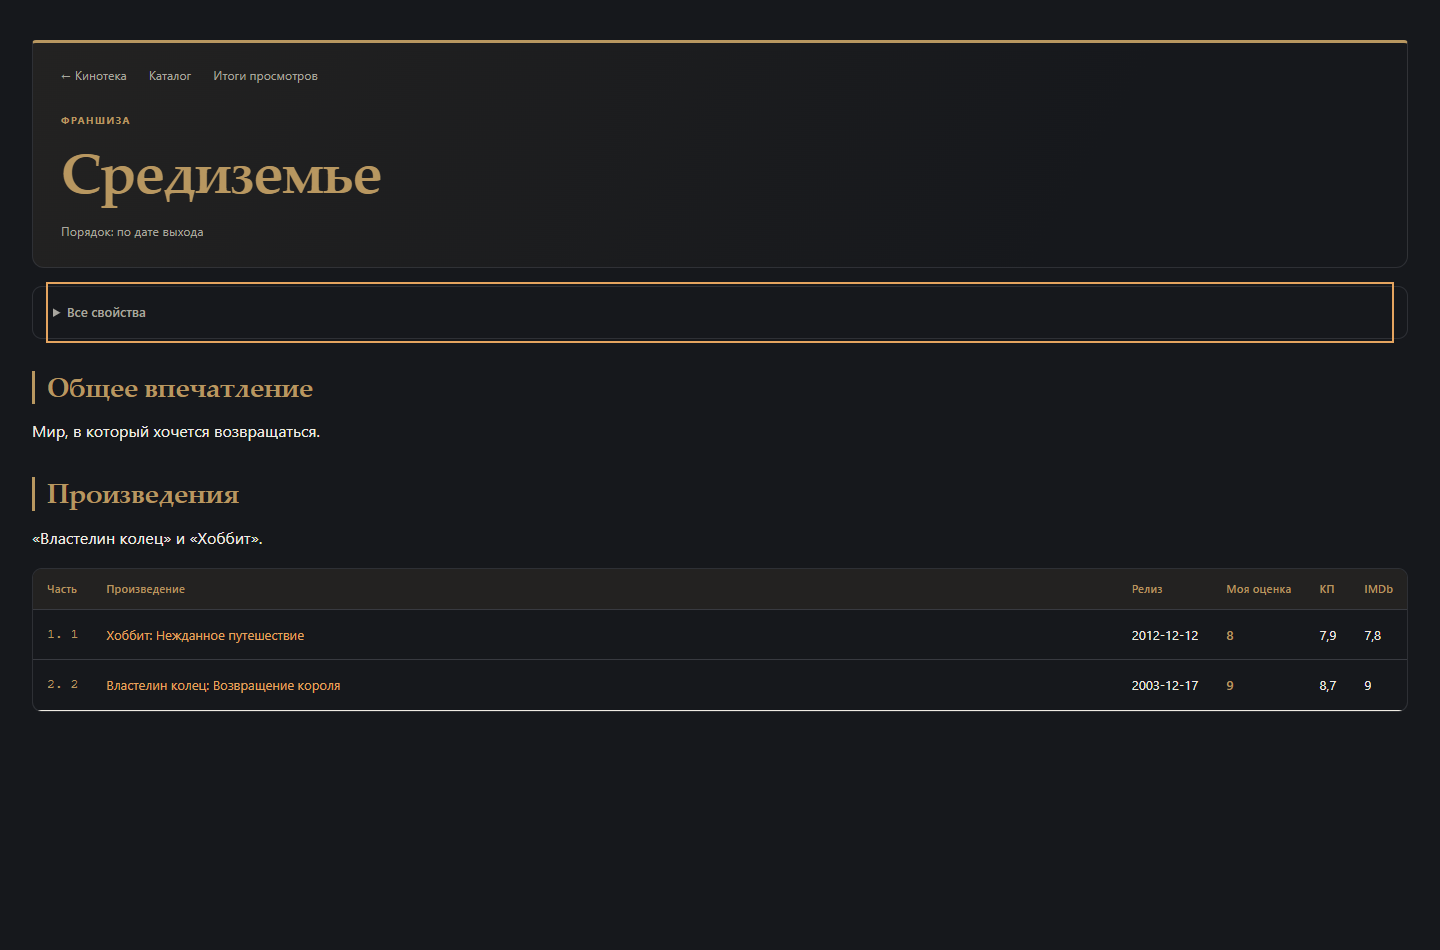
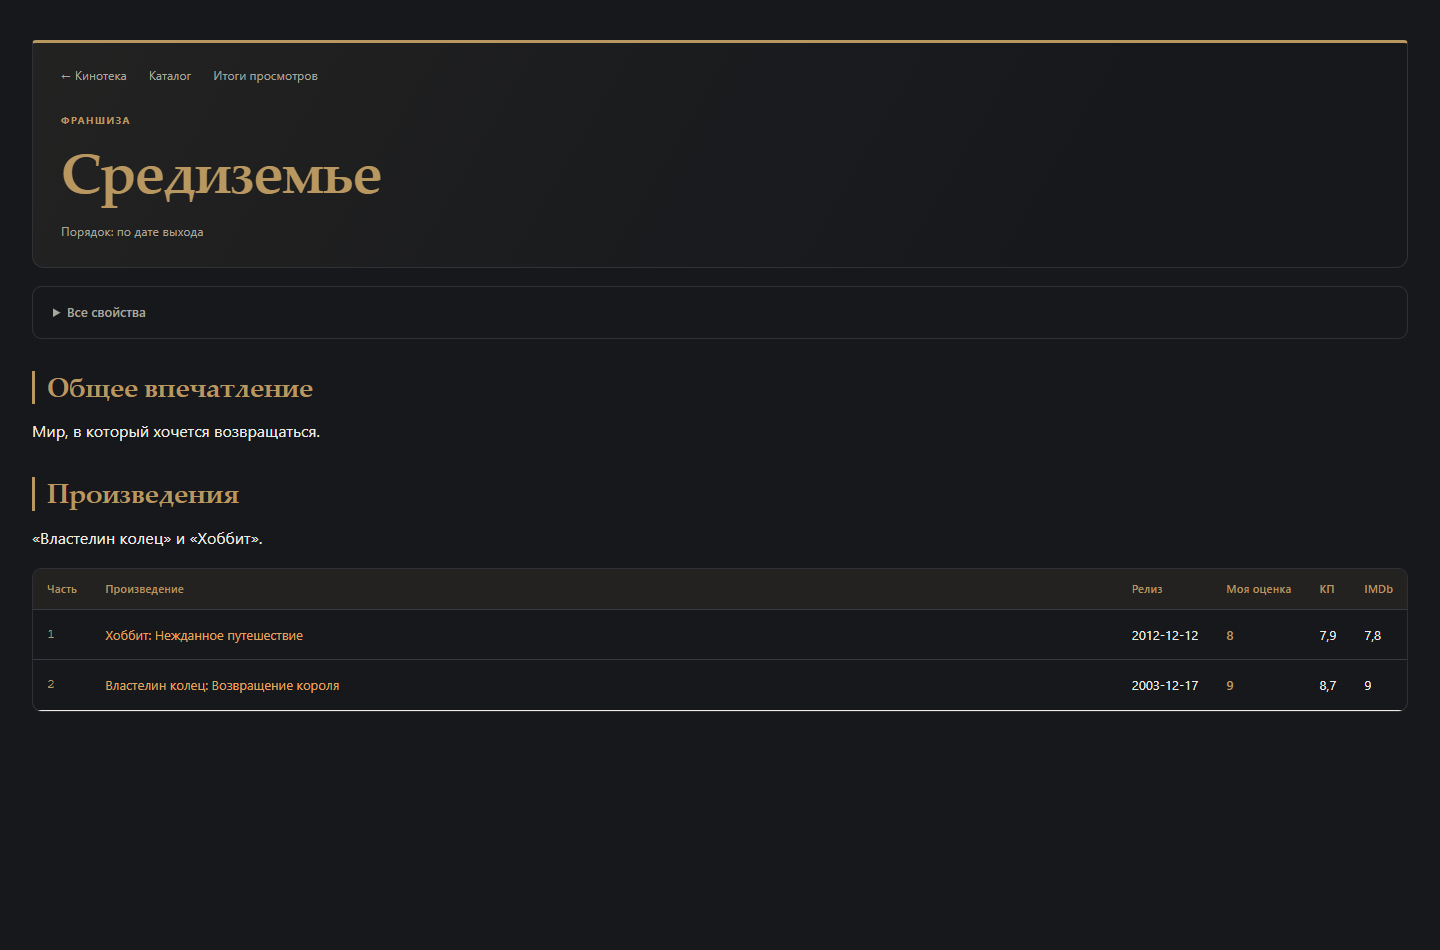
vault backup: 2026-10-13 20:47:33

diff --git a/Кино/_system/Редизайн — прогресс.md b/Кино/_system/Редизайн — прогресс.md
@@ -11,6 +11,7 @@ cssclasses: ["kino-page","kino-system"]
 - **Запрос завершён:** все 173 страницы франшиз используют общую шапку с навигацией, мягкий золотой #b89760, serif-заголовки разделов, панель свойств и оформленные таблицы. Ширина остаётся 100%; таблица на узкой панели прокручивается внутри своего блока. Другие виды карточек не менялись.
 - Изменены общие `kino_ui.js` и `kino-design.css`, установленный snippet синхронизирован. Только отсутствовавший интерфейс у «Джека Ричера» добавлен одноразовым `redesign-backups/franchise-style-20261013/apply.cjs`; остальные 172 заметки побайтно сохранены. Все 173 исходных Dataview-запроса и порядок сортировки сохранены, источники и личный Markdown не переписывались. Манифест с SHA256 — `verification.json` в той же папке.
 - Обе команды создания/дополнения франшизы — `edit_franchise.js` и `Examples_Attachments_movies.js` — подключают общее оформление автоматически. Существующая заметка обрабатывается через Vault.process со свежим содержимым, чтобы сохранить одновременные правки. Новые QuickAdd-команды и плагины не добавлены.
+- **25/25 проверок прошли:** прежний дизайн и сохранность карточек, обе команды франшиз, новые и существующие страницы, одновременная правка, отсутствие дублей интерфейса/источников, порядок, навигация, свойства с клавиатуры, исходные заголовки/якоря, ширина 390/1440 px. Дополнительный счётчик строк темы скрыт только в таблицах франшиз, чтобы не дублировать реальные номера частей.
 - Резервные копии модулей, стилей, справки и изменённой заметки: `redesign-backups/franchise-style-20261013/before/`. Превью `redesign-backups/previews/franchise-390.png` и `franchise-1440.png` проверены в Chrome на Obsidian fixtures; повторную миграцию и очистку журнала не запускать.
 
 ## Ширина всех страниц кинотеки — 13.10.2026

diff --git a/Книги/_index.md b/Книги/_index.md
@@ -26,7 +26,7 @@ if (file) {
 
 <!-- BOOK-HOME-STATS:START -->
 > [!quote] Библиотека
-> **222 произведений** · **93 авторов** · **143 художественных** · **79 нон-фикшн** · **0 перечитано**
+> **214 произведений** · **93 авторов** · **135 художественных** · **79 нон-фикшн** · **0 перечитано**
 <!-- BOOK-HOME-STATS:END -->
 
 
